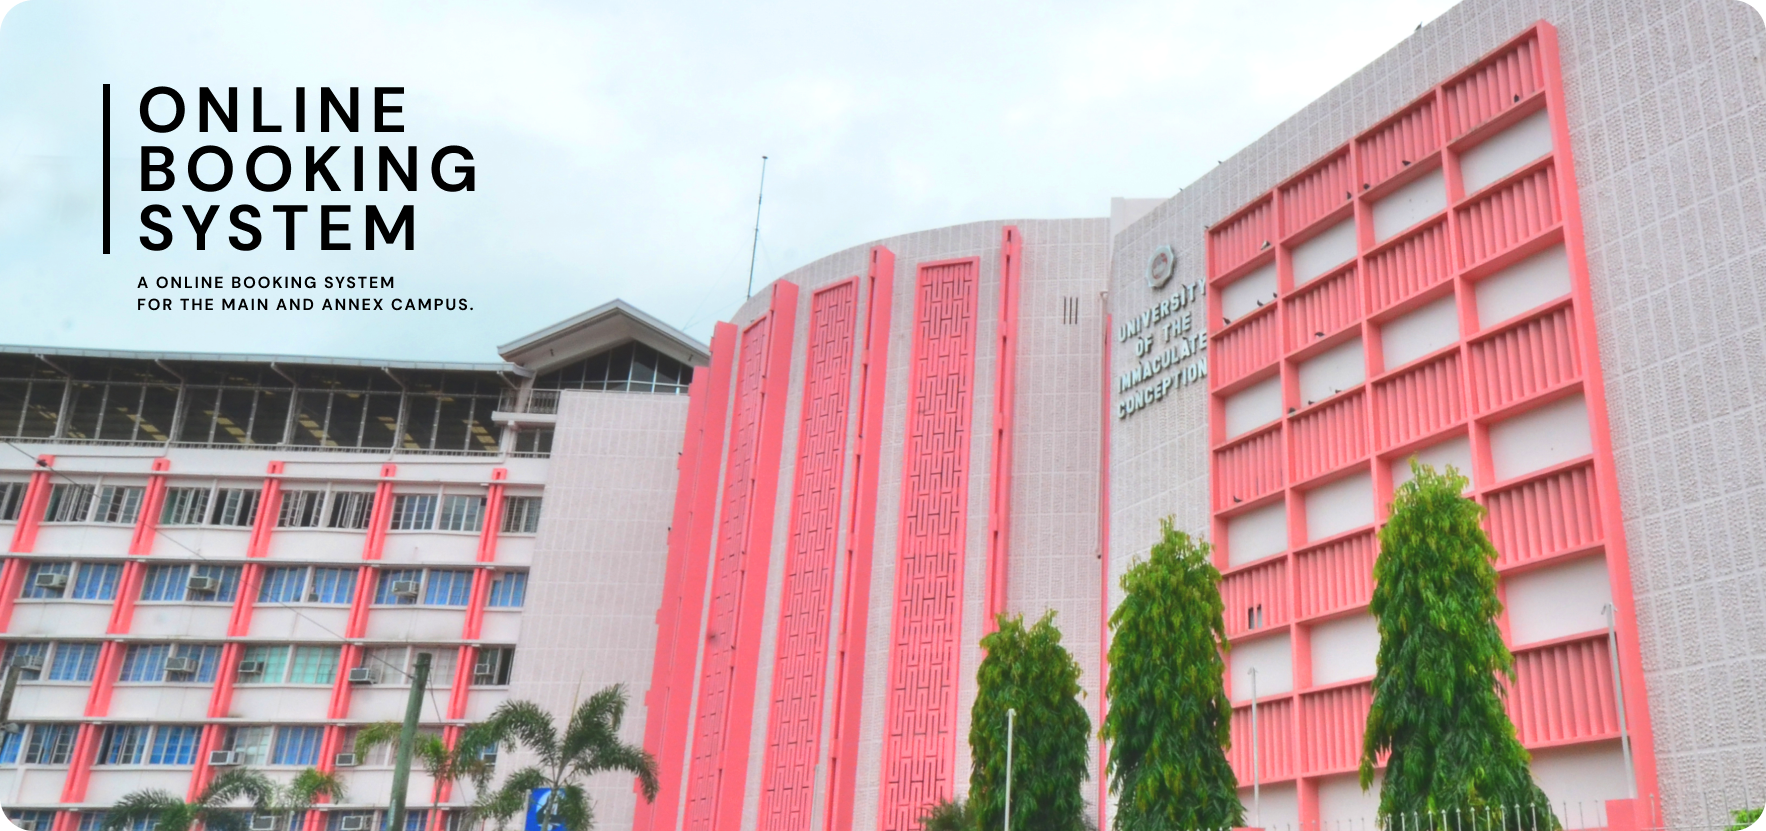
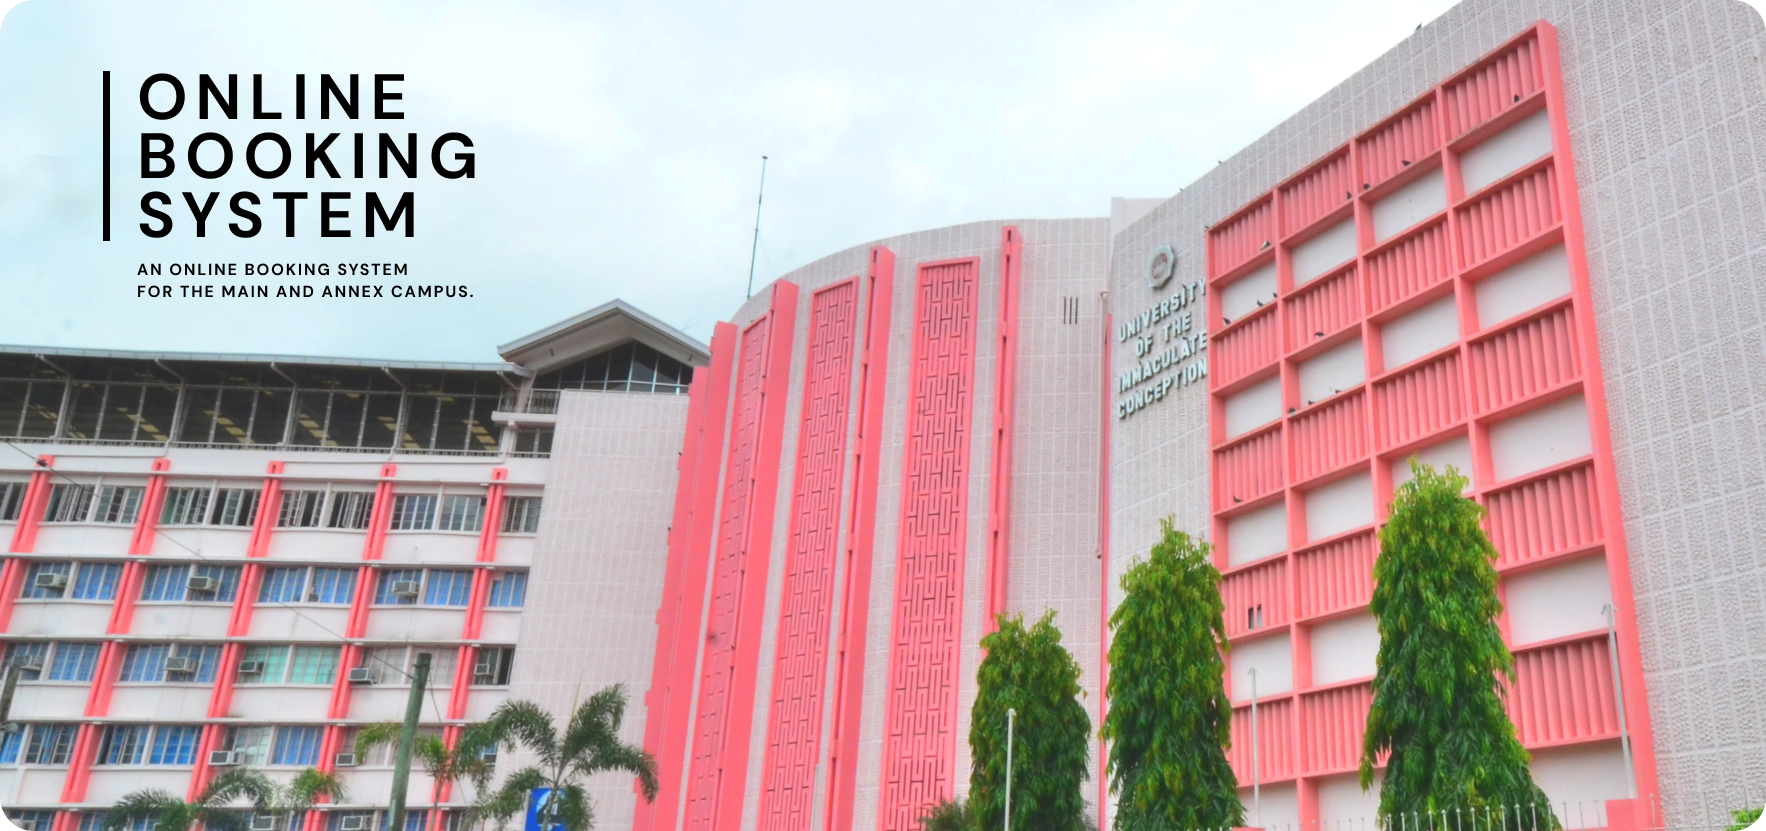
added background image
I added background image to the user login and admin log in page, also I fix the typo in the dashboard text.

Changed region(s): [[0.0623, 0.0903, 0.2803, 0.3911]]

diff --git a/src/components/AdminLogin.jsx b/src/components/AdminLogin.jsx
@@ -70,61 +70,63 @@ const Login = () => {
 
   return (
     <>
-      {/* error message */}
-      <div className="error-container-login">
+      {/* Background container with background image */}
+      <div className="background-container-admin">
         {/* Error message */}
-        <p className={errMsg ? "errmsg" : "offscreen"} aria-live="assertive">
-          {errMsg}
-        </p>
-      </div>
-
-      {/* Login Section */}
-      <div className="login-section">
-        <div className="img-container-login">
-          <img src={uicLogo} alt="Uic logo" className="uic-logo" />
+        <div className="error-container-login">
+          <p className={errMsg ? "errmsg" : "offscreen"} aria-live="assertive">
+            {errMsg}
+          </p>
         </div>
-        <div className="h1-container-login">
-          <h1>ADMINISTRATOR</h1>
-        </div>
-        <div className="form-container-login">
-          <form onSubmit={handleSubmit} onChange={handleFormChange}>
-            <label htmlFor="studentId" className="labelstdID">
-              Email
-            </label>
-            <br />
-            <input
-              type="text"
-              id="studentId"
-              placeholder="Enter your email here"
-              autoComplete="off"
-              onChange={(e) => setEmail(e.target.value)}
-            />
-            <br />
-            <label htmlFor="password" className="labelstdPWD">
-              Password
-            </label>
-            <br />
-            <input
-              type="password"
-              id="password"
-              placeholder="Enter your password here"
-              onChange={(e) => setPassword(e.target.value)}
-              required
-            />
-            <span className="forgotPassword">
-              <Link to="/forgot-password">
-                <span className="forgotpassButton">Forgot Password?</span>
-              </Link>
-            </span>
 
-            <br />
-            <button
-              className={formFilled ? "" : "disabled"}
-              disabled={!formFilled}
-            >
-              Login
-            </button>
-          </form>
+        {/* Login Section */}
+        <div className="login-section">
+          <div className="img-container-login">
+            <img src={uicLogo} alt="Uic logo" className="uic-logo" />
+          </div>
+          <div className="h1-container-login">
+            <h1>ADMINISTRATOR</h1>
+          </div>
+          <div className="form-container-login">
+            <form onSubmit={handleSubmit} onChange={handleFormChange}>
+              <label htmlFor="studentId" className="labelstdID">
+                Email
+              </label>
+              <br />
+              <input
+                type="text"
+                id="studentId"
+                placeholder="Enter your email here"
+                autoComplete="off"
+                onChange={(e) => setEmail(e.target.value)}
+              />
+              <br />
+              <label htmlFor="password" className="labelstdPWD">
+                Password
+              </label>
+              <br />
+              <input
+                type="password"
+                id="password"
+                placeholder="Enter your password here"
+                onChange={(e) => setPassword(e.target.value)}
+                required
+              />
+              <span className="forgotPassword">
+                <Link to="/forgot-password">
+                  <span className="forgotpassButton">Forgot Password?</span>
+                </Link>
+              </span>
+
+              <br />
+              <button
+                className={formFilled ? "" : "disabled"}
+                disabled={!formFilled}
+              >
+                Login
+              </button>
+            </form>
+          </div>
         </div>
       </div>
     </>

diff --git a/src/styles/adminLogin.css b/src/styles/adminLogin.css
@@ -142,3 +142,17 @@
   text-decoration: none;
   cursor: pointer;
 }
+
+.background-container-admin {
+  position: fixed;
+  top: 0;
+  left: 0;
+  width: 100%;
+  height: 100%;
+  overflow: hidden;
+  background-image: url('../assets/uic-school-bg.png');
+  background-size: cover;
+  background-position: center;
+  /* Additional styling if needed */
+}
+

diff --git a/src/styles/login.css b/src/styles/login.css
@@ -137,6 +137,12 @@
 }
 
 .background-container {
+  position: fixed;
+  top: 0;
+  left: 0;
+  width: 100%;
+  height: 100%;
+  overflow: hidden;
   background-image: url('../assets/uic-school-bg.png');
   background-size: cover;
   background-position: center;
